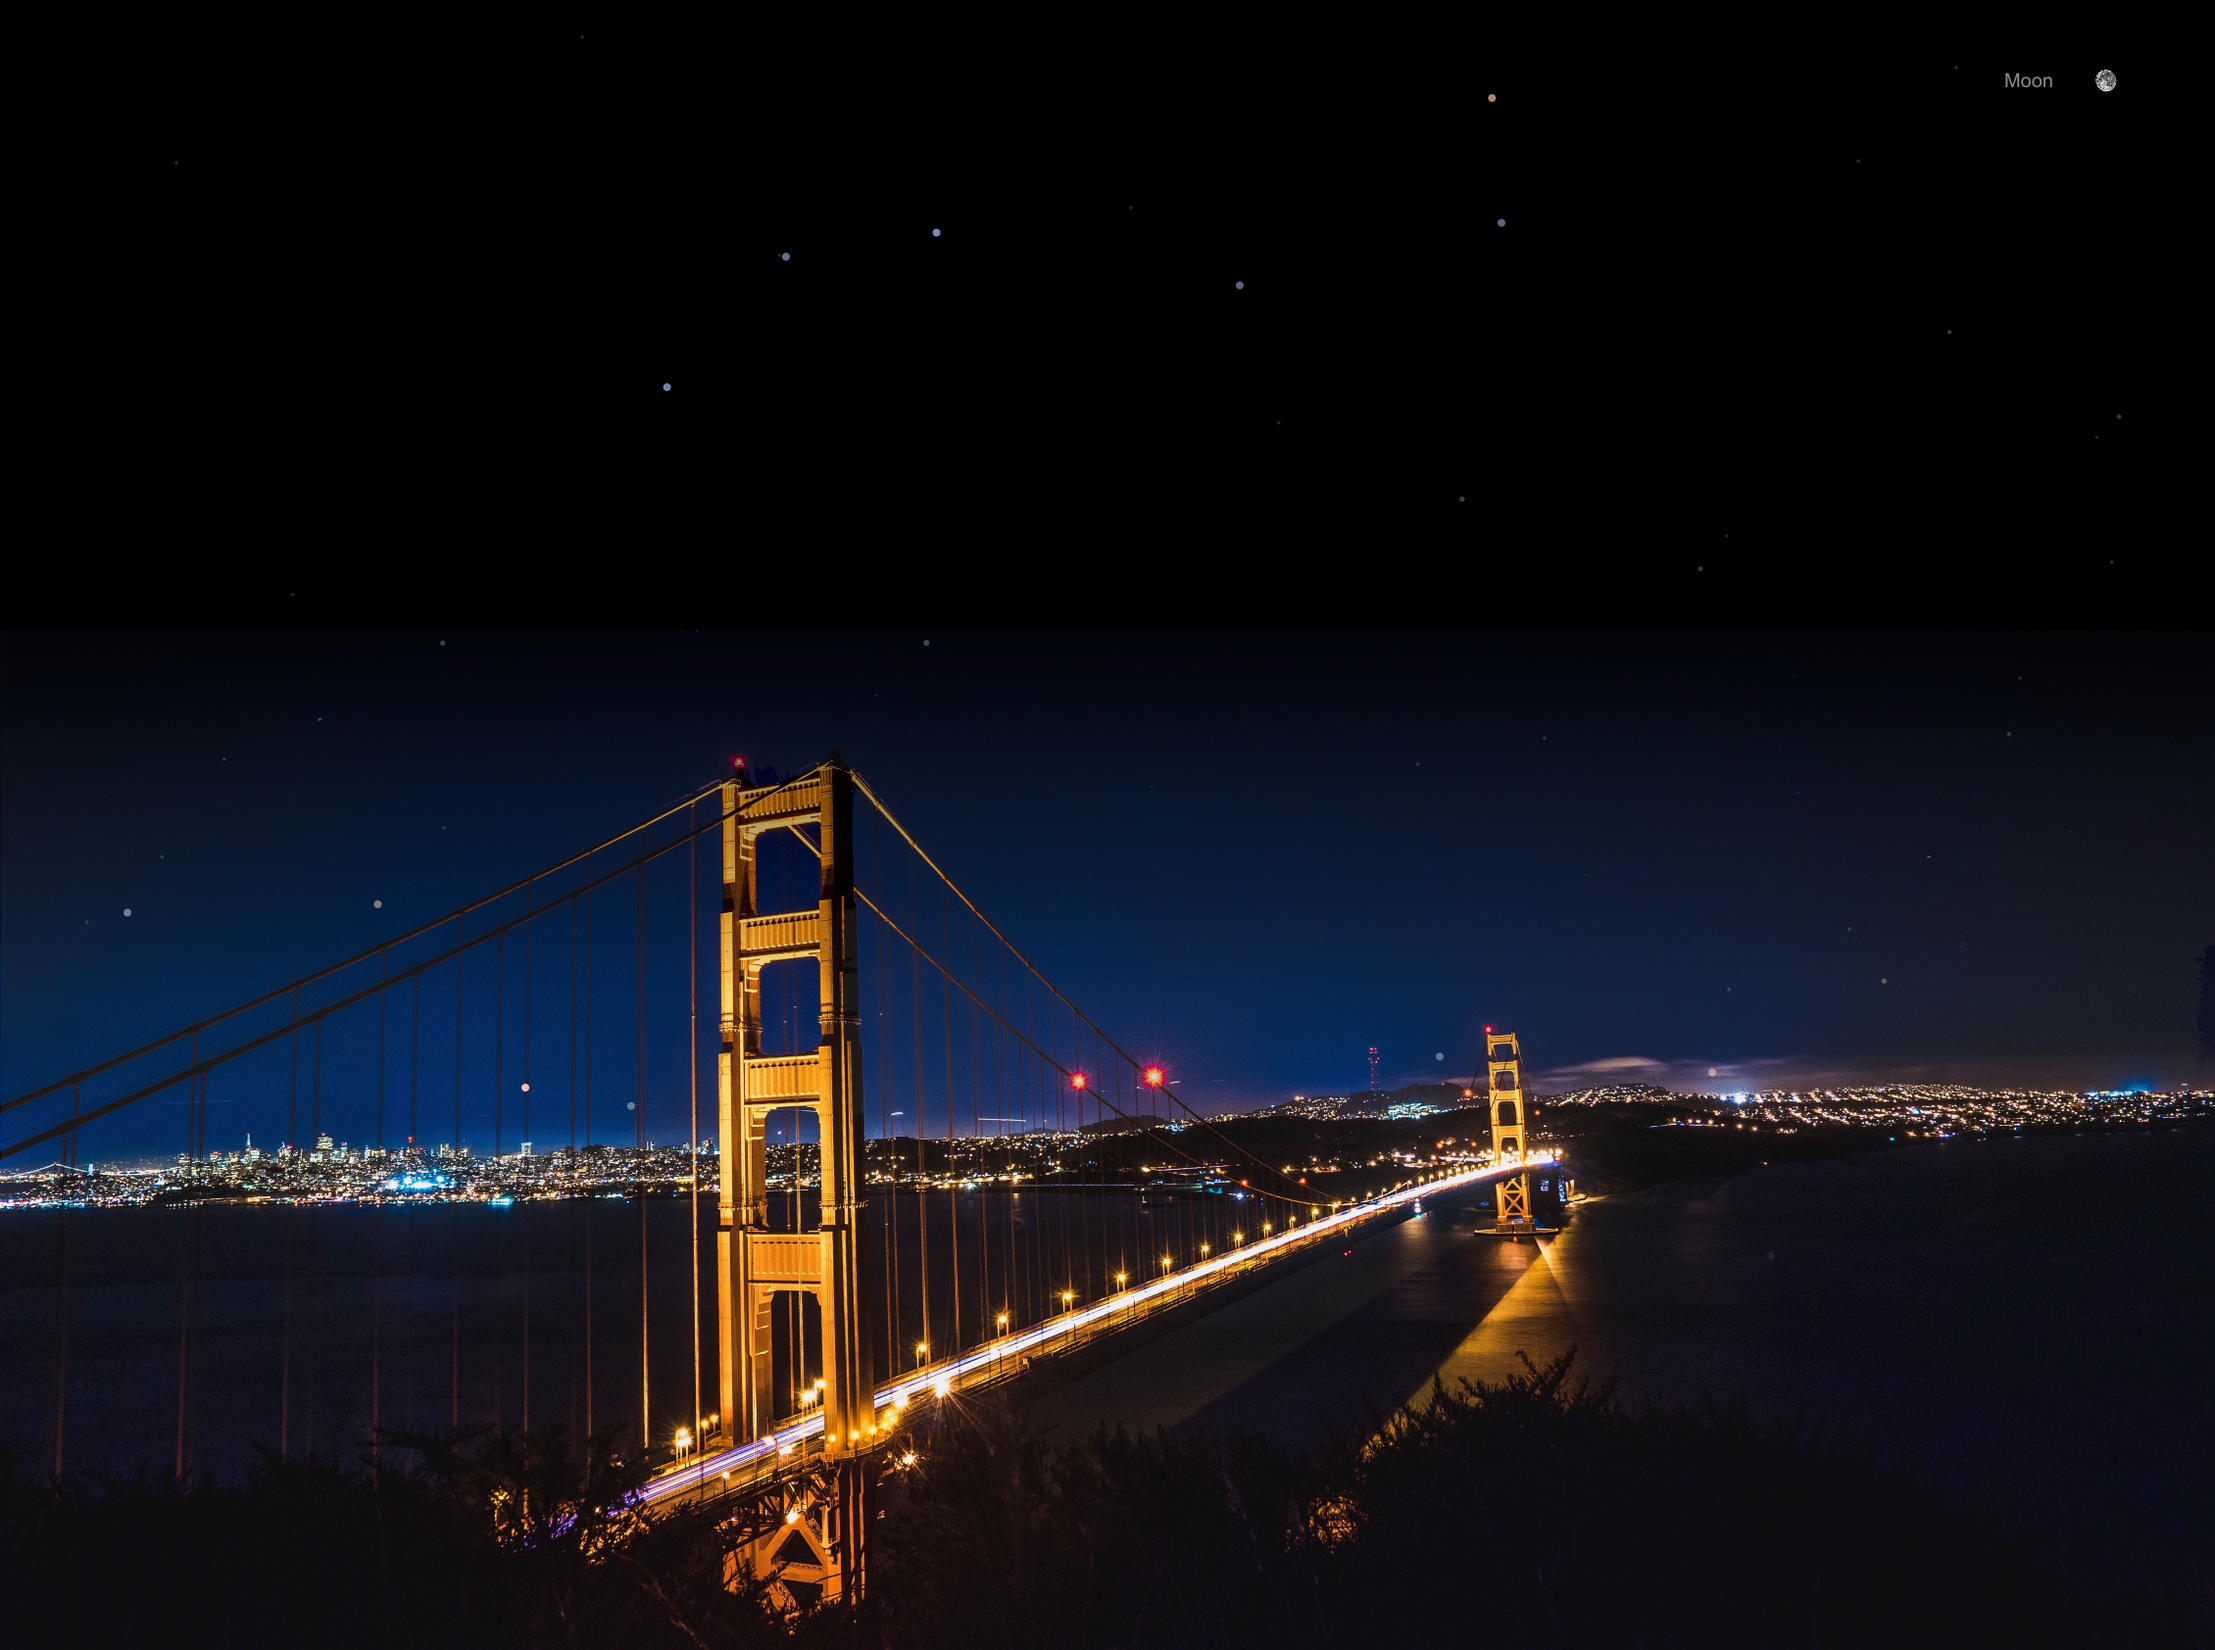
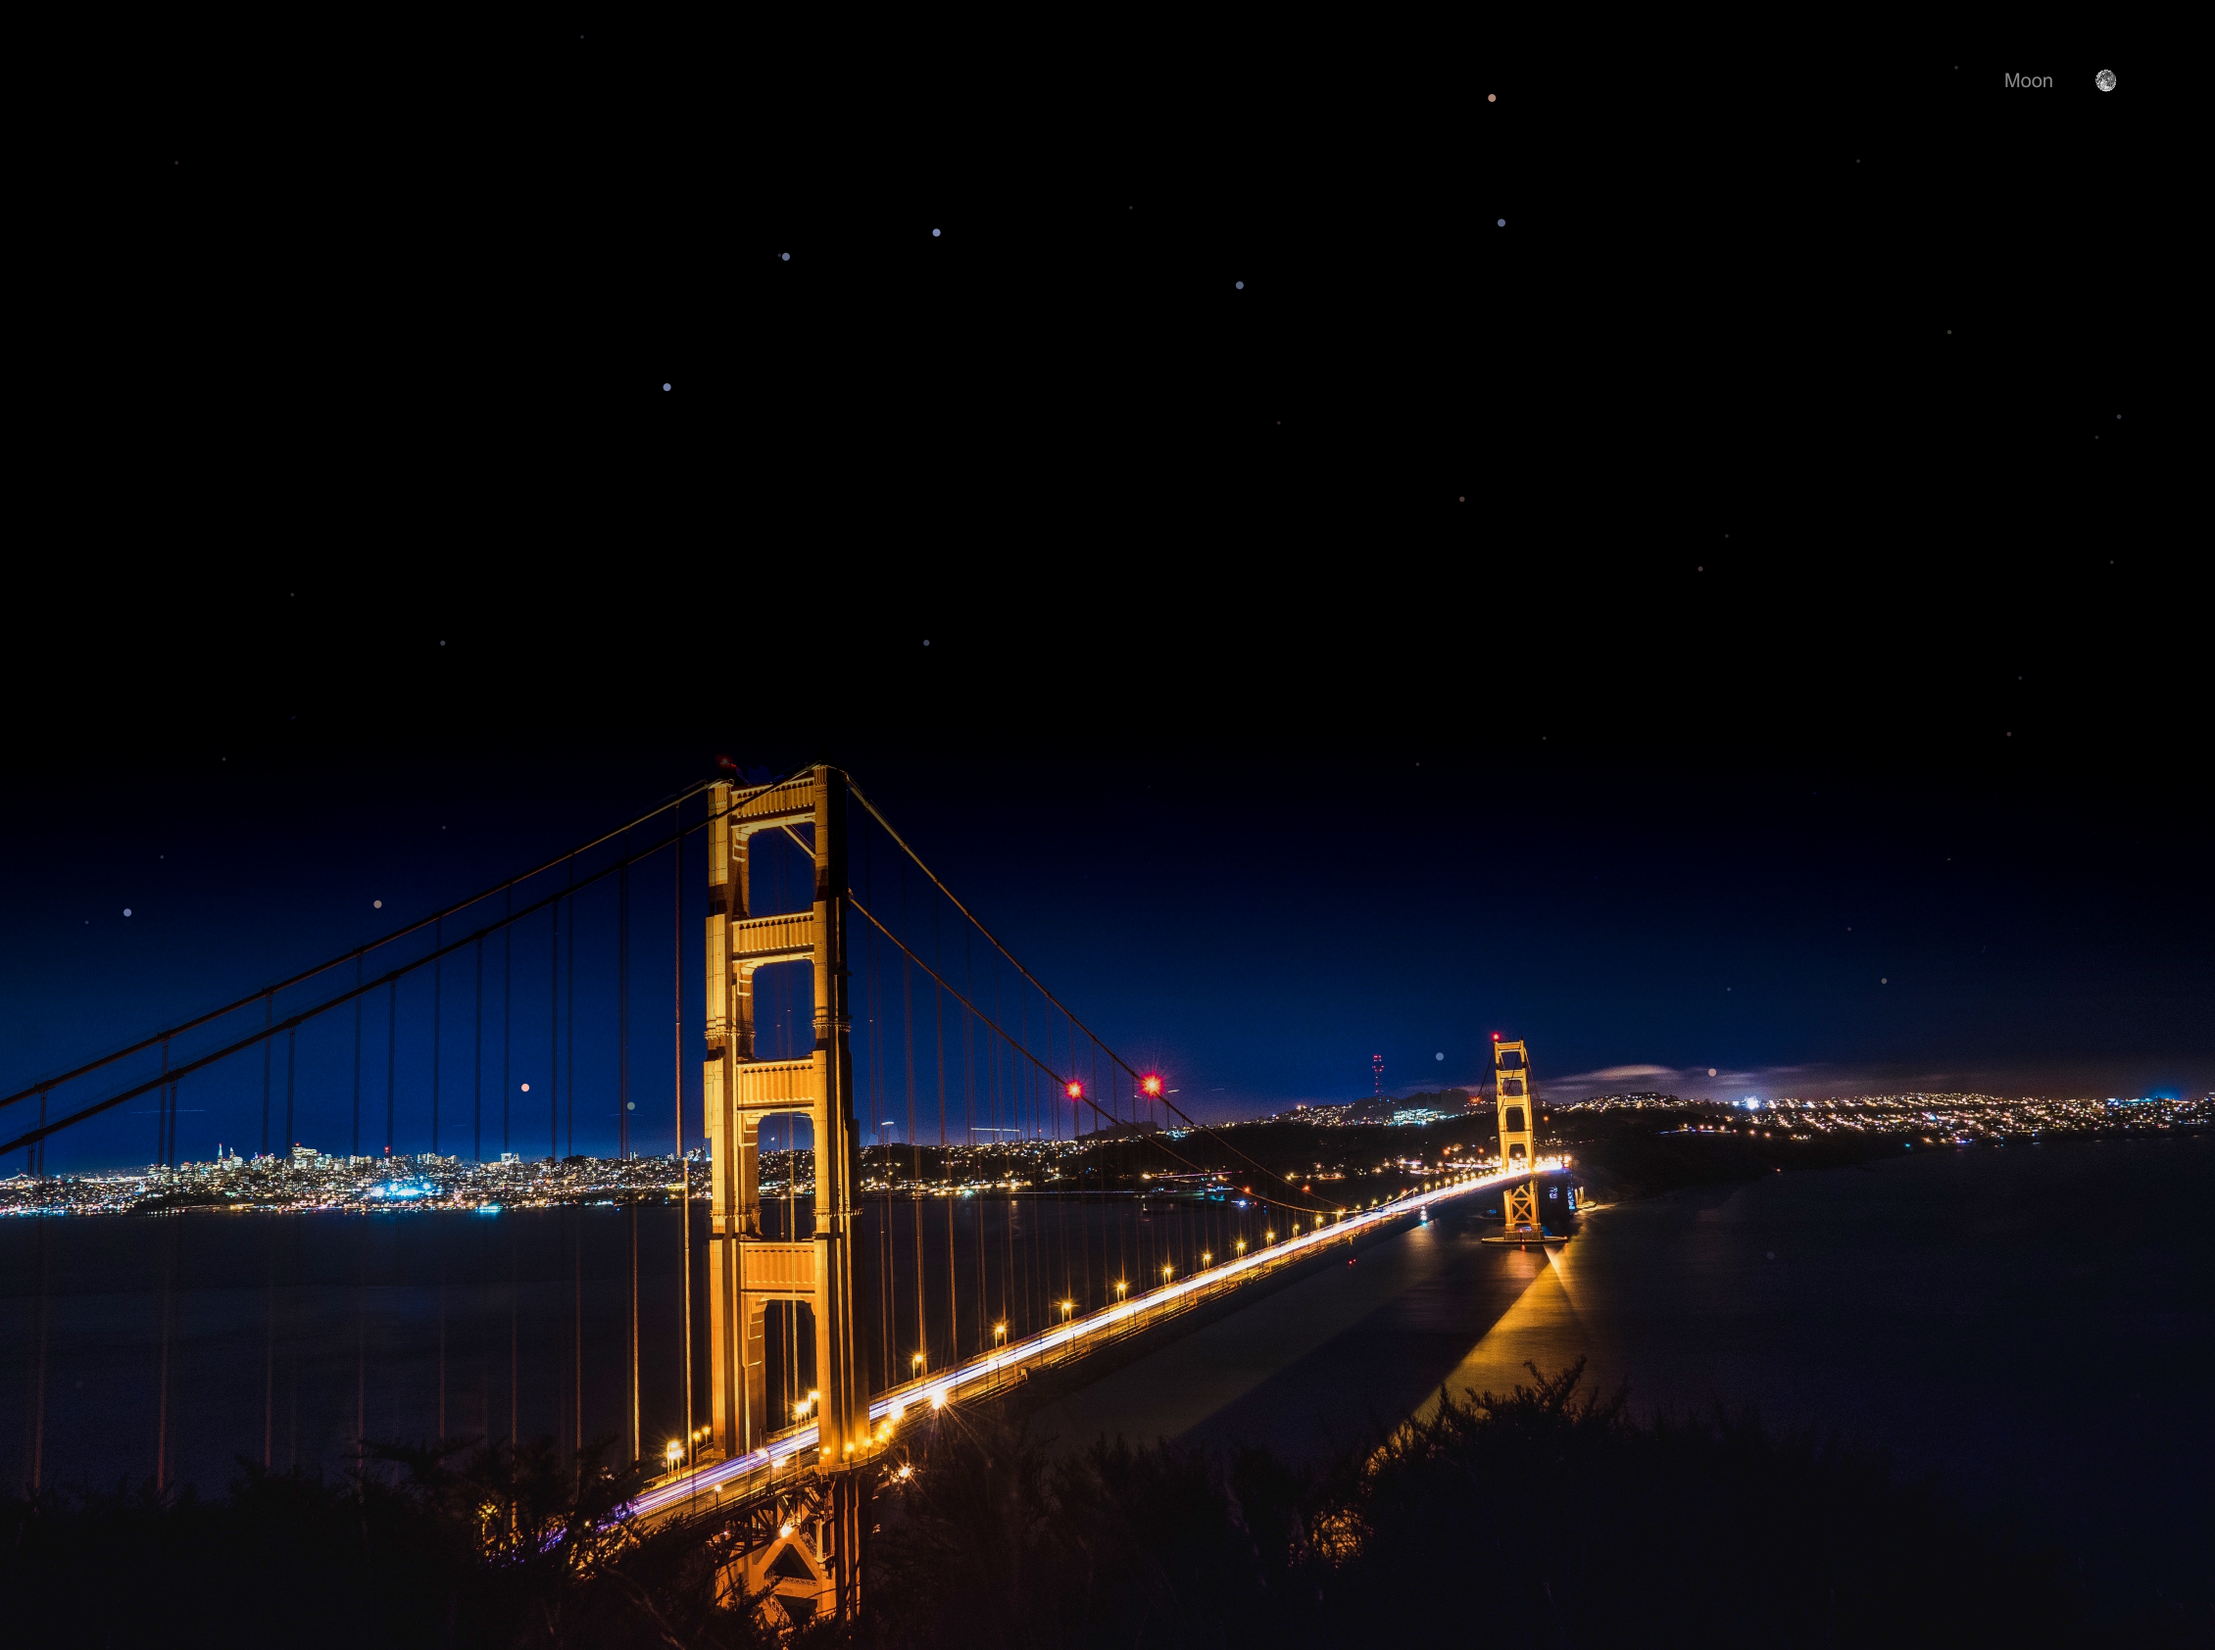
update frames

Changed region(s): [[0.0, 0.4014, 1.0, 1.0], [0.5885, 0.8955, 0.6195, 0.9572], [0.0619, 0.8646, 0.0929, 0.8955]]

diff --git a/structura/simple3.html b/structura/simple3.html
@@ -33,7 +33,7 @@
 <!-- Header -->
 <section class="hero" id="intro">
 <div class="container">
-    <div id="particles"><canvas class="particles-canvas" style="width: 100%; height: 100%;"></canvas></div>
+    <!-- <div id="particles"><canvas class="particles-canvas" style="width: 100%; height: 100%; z-index=2"></canvas></div> -->
     <div class="row">
         <div class="text-center">
             <div class="animatedParent">
